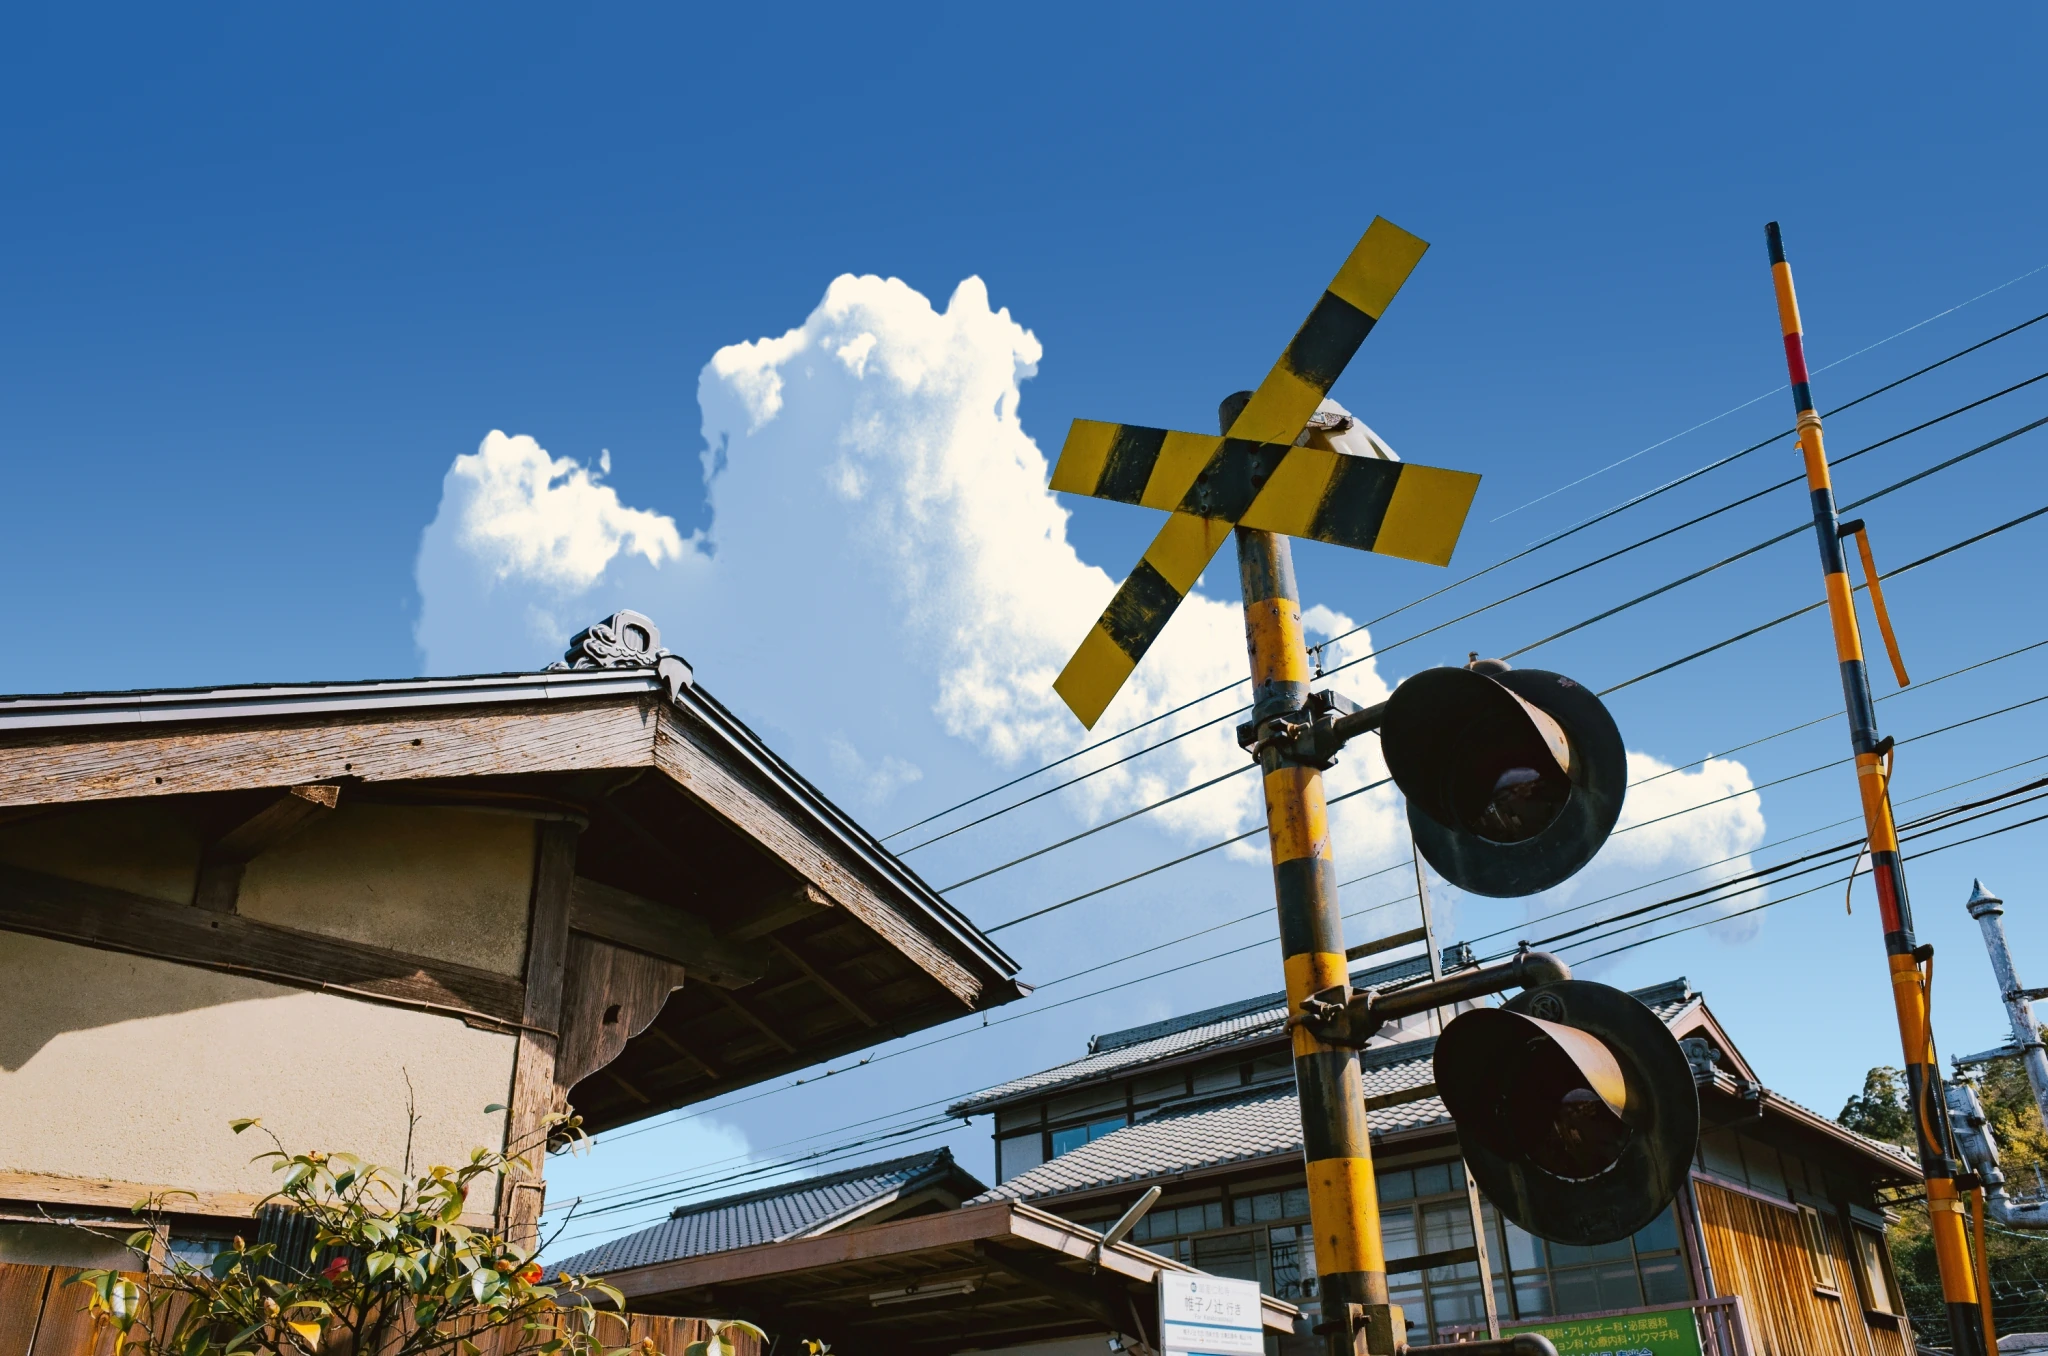
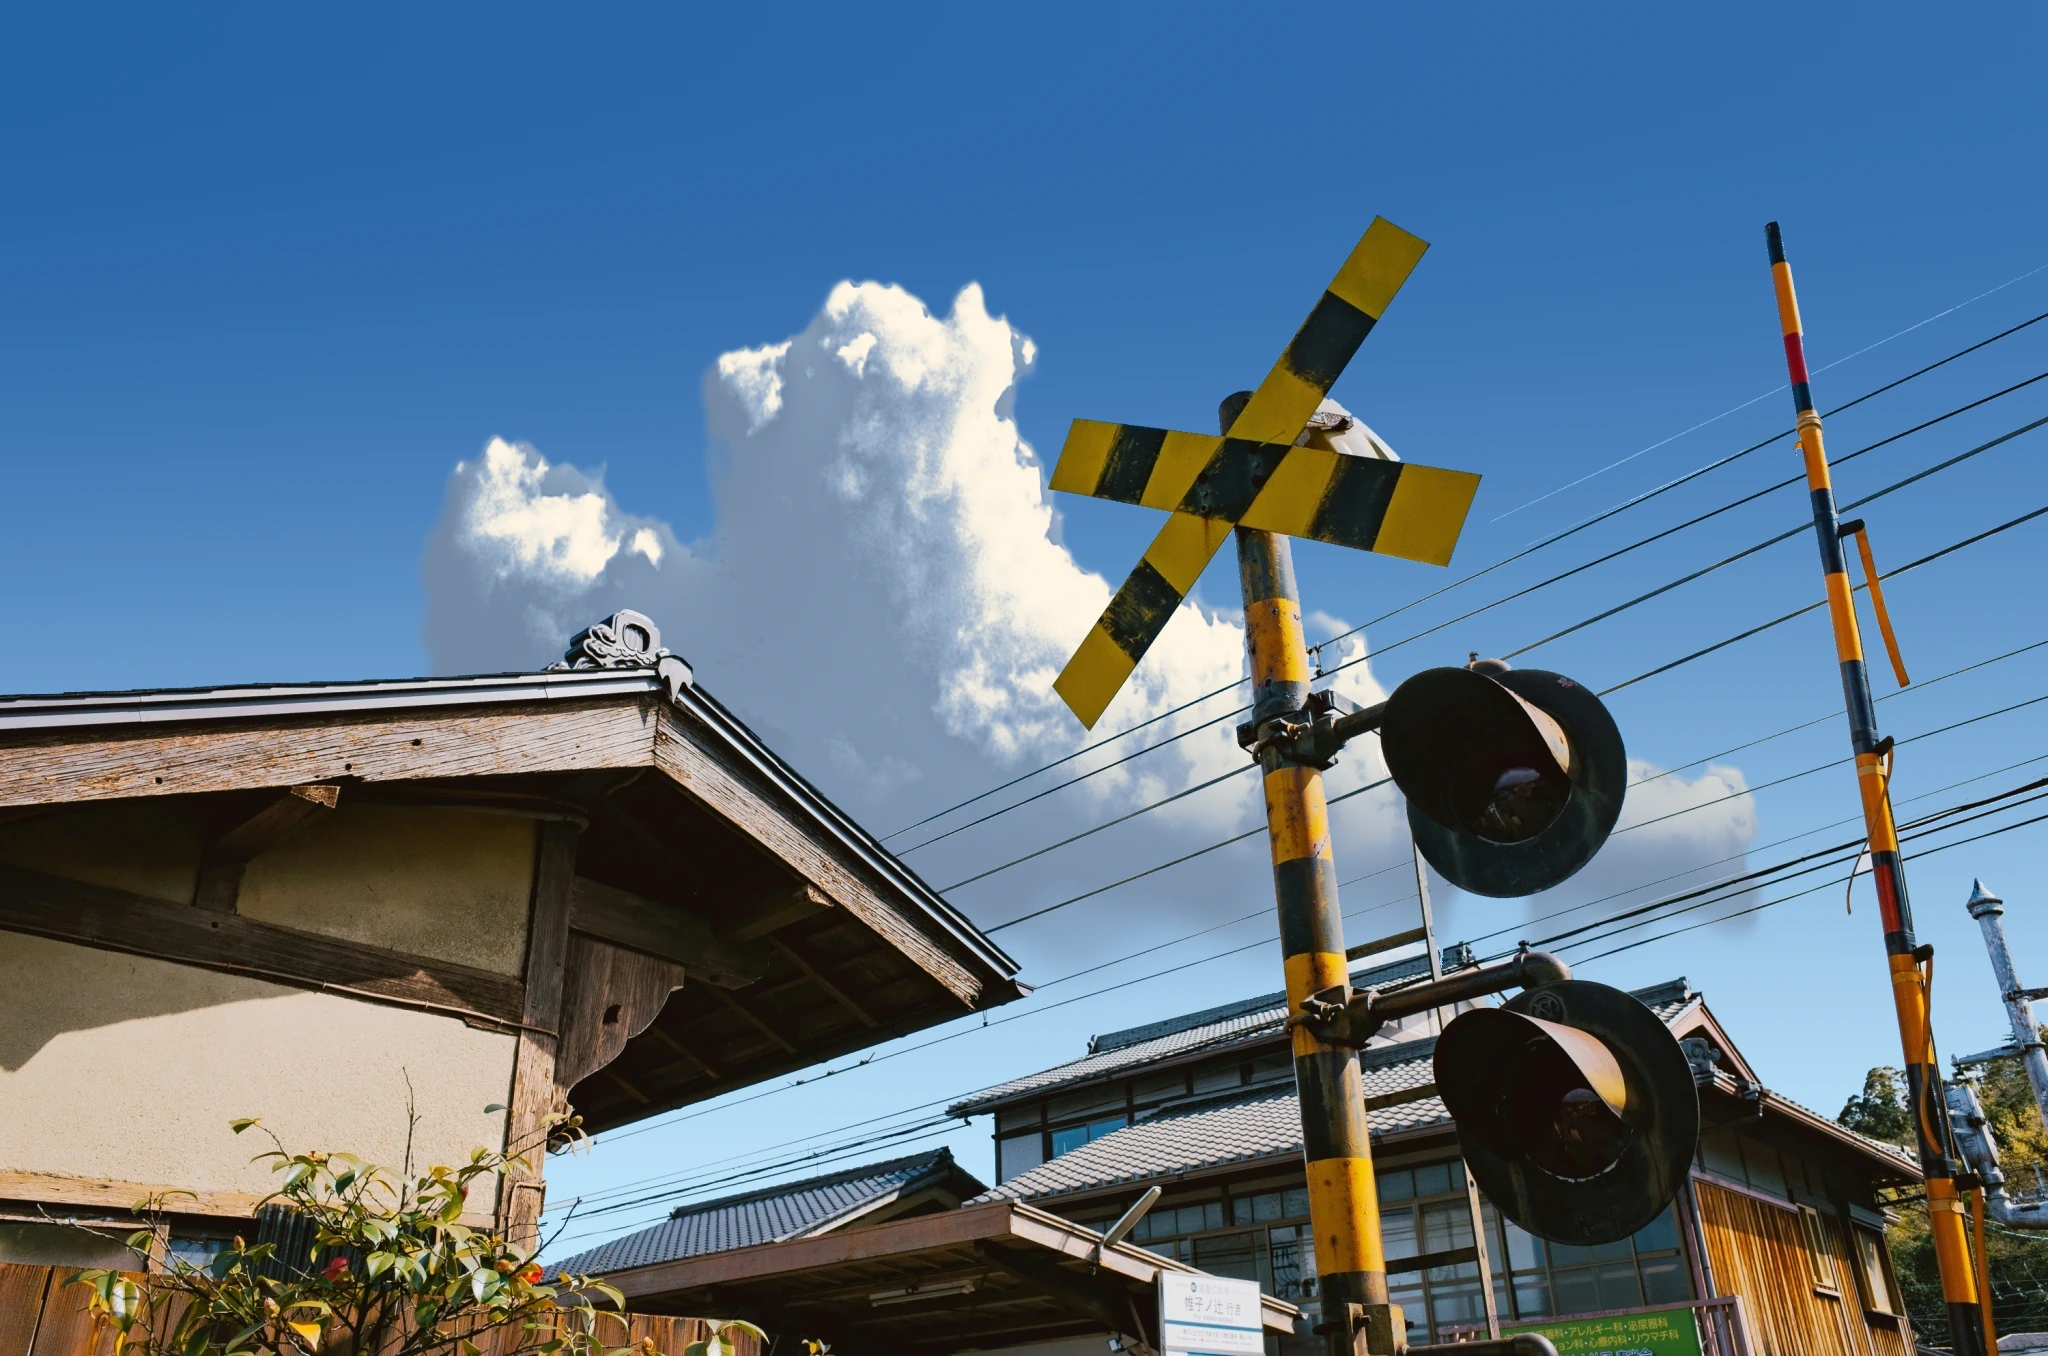
Lab: climb crossing round 1
Claude-Session: https://claude.ai/code/session_01RqENhngNCzDFmJWDZueXGV

Changed region(s): [[0.1875, 0.1858, 0.7188, 0.7124], [0.3438, 0.7434, 0.5312, 0.8673], [0.75, 0.5575, 0.875, 0.6814]]

diff --git a/src/app/lab/crossing/crossingEngine.js b/src/app/lab/crossing/crossingEngine.js
@@ -16,8 +16,9 @@ import { createFilm } from "../_kit/film";
 // The photo's own clouds were faint torn wisps, so the sky card holds the
 // clear cobalt gradient alone and an eighth card between it and the far
 // houses carries real cumulus (cumulus.py, from a Poly Haven summer HDRI):
-// sunlit warm tops that roll off below clipping, skylight-blue undersides,
-// rising from behind the old house's roof and the town.
+// sunlit warm tops that roll off below clipping, a skylight blue-grey left
+// flank and lower lobes, and a darker, flat base that thins into the sky's
+// horizon above the old house's roof and the town.
 //
 // Every plane k sits at its own distance z_k from the camera and is scaled by
 // z_k / f, so from the lens axis the stack projects back onto the photo
@@ -73,7 +74,7 @@ const PLANES = [
   // takes only a share of the lens's defocus (dof), of the air's haze and of
   // the shadows the cards in front throw (shade), so focused on the near
   // planes it stays a lit, glowing form, not a smear.
-  { file: "clouds", rect: [0.09375, 0.0944, 0.93555, 1.10324], o: 0.53, ends: [true, true, true, true], cast: false, dof: 0.2, haze: 0.15, shade: 0 },
+  { file: "clouds", rect: [0.0957, 0.09587, 0.93359, 0.85546], o: 0.53, ends: [true, true, true, true], cast: false, dof: 0.2, haze: 0.15, shade: 0 },
   { file: "p1", rect: [-0.1499, 0.18805, 1.1499, 1.14971], o: 0.38 }, // far houses, trees
   // the wires' overscan runs on along each wire's own slope, so past the
   // photo their matte (for shadows) does not hold its edge: it would draw

diff --git a/tools/depth/bakes/crossing/cumulus.py b/tools/depth/bakes/crossing/cumulus.py
@@ -20,11 +20,23 @@ a swing slides it against the rooftops.
              house) are kept, by connected component: the rows of small
              cumulus and the horizon haze under them are gone, so the alpha
              is 0 below the cloud base and nothing veils the roofs or the town.
-             Relit with real contrast: the HDR luminance, its billows
-             sharpened (a local-contrast boost in log luminance, so the
-             cauliflower holds on the lit edges), runs from a saturated
-             skylight blue-grey in the shaded lobes and toward the base to a
-             warm near-white on the sunlit tops that rolls off below clipping.
+  edge       the key's outermost px are thin cloud over sky: a pale rim with
+             dark-blue notches. Still at native resolution, the bays are
+             closed, the silhouette eroded by ERODE px and feathered again,
+             a little on the edges facing the sun and more on the shaded ones,
+             and the edge takes the colour of the solid body inside it.
+  light      the HDR luminance, its billows sharpened (a local-contrast boost
+             in log luminance, so the cauliflower holds), modelled by the
+             silhouette's relief lit from the sun. Only where the sun reaches
+             (the faces of the big lobes turned up and right, high in the
+             cloud) may it run up to the warm white that rolls off below
+             clipping; everywhere else the same billows stay in a skylight
+             blue-grey (hue 210-214), deeper in the lobes turned furthest
+             away, so the left flank and the lower lobes read as shade.
+  base       on the card: the underside darkens to a flatter blue-grey above
+             VBASE, then the cloud thins over BASE_FADE into the sky's own
+             horizon gradient along a wavering line, so no pale veil of it
+             hangs behind the old house's roof, the wires and the town.
              Projected onto the card through a rectilinear view, stretched
              upright (STRETCH) and scaled so the cloud towers from behind the
              roofs to well above the crossbuck's arms, in the middle of the
@@ -52,7 +64,7 @@ import numpy as np
 from PIL import Image
 
 sys.path.insert(0, os.path.dirname(os.path.abspath(__file__)))
-from common import dilate, erode, pushpull, smoothstep  # noqa: E402
+from common import dilate, disk, erode, pushpull, smoothstep  # noqa: E402
 from skygrad import _enc, _lin, sky_gradient  # noqa: E402
 
 BAKE, HDR, OUT = sys.argv[1:4]
@@ -88,15 +100,32 @@ FOCAL, STRETCH = 2700.0, 1.3
 KEEP_LON, KEEP_LAT = (125.0, 165.0), (17.0, 40.0)
 MIN_AREA = 30000  # pano px: cumulus, not the scraps round them
 PAD = 0.07  # transparent margin round the cloud, photo widths
+# The silhouette, in pano px: bays of sky narrower than 2 CLOSE_R are closed,
+# the key's thin rim is eroded by ERODE and the edge feathered again by
+# FEATHER (sigma: the sun-facing edges, the shaded ones).
+CLOSE_R, ERODE, FEATHER = 6, 5, (1.5, 4.0)
 # Relit cloud, sRGB: a warm sunlit white that the film lands just under
-# clipping, and a saturated skylight blue-grey for the shaded lobes.
-CLOUD_TOP = (0xFF, 0xF8, 0xEA)
-CLOUD_SHADE = (0x8F, 0xB3, 0xD9)
+# clipping, a skylight blue-grey for the shaded billows (k = K_SHADE) and a
+# deeper one for the lobes turned furthest from the sun (k = 0), all near
+# hue 210-214 so the shade reads as sky light, not grey.
+CLOUD_TOP = (0xFF, 0xF6, 0xE4)
+CLOUD_SHADE = (0x99, 0xAF, 0xC9)
+CLOUD_DEEP = (0x72, 0x89, 0xA6)
+K_SHADE = 0.45
 DETAIL = (2.3, 1.3)  # local-contrast boost of the billows (log luminance): lobes, then cauliflower
-BASE_SHADE = (31.0, 21.0, 0.6)  # toward the base (lat), the cloud darkens by up to this
 FORM = 0.55  # how much the silhouette's own relief, lit from the sun, models it
 SUN2D = (0.62, -0.78)  # the sun's direction across the view (x right, y down): up and right
-RIM = (8, 22, 0.85)  # sun-facing edges: within these px of the silhouette, lit to this share of the lobe inside
+# Where the sun reaches: the big lobes' relief (weight SUN_W[0]) and the
+# height in the cloud (lat SUN_LAT, weight SUN_W[1]). Out of it a lobe keeps
+# its billows but at most SHADE_CAP of the lit range.
+SUN_LAT, SUN_W, SHADE_CAP = (23.0, 33.0), (1.4, 1.6), 0.45
+# The base, in photo v: the underside darkens to CLOUD_BASE over BASE_BAND
+# above VBASE (keeping BASE_FLAT of its own broad shading, BASE_SHARE of the
+# way), then thins over BASE_FADE into the sky gradient (its colour BASE_SKY
+# of the way there as it goes), along a line that wavers by BASE_WOB.
+CLOUD_BASE = (0x7C, 0x92, 0xAE)
+VBASE, BASE_BAND, BASE_FADE, BASE_WOB = 0.66, 0.18, 0.08, 0.008
+BASE_FLAT, BASE_SHARE, BASE_SKY = 0.3, 0.9, 0.6
 SHARPEN = 0.5  # unsharp mask on the card, inside the cloud
 LW = np.array([0.2126, 0.7152, 0.0722], np.float32)
 PX_DEG = 16384 / 360  # the 16k pano's px per degree
@@ -203,6 +232,25 @@ alpha = alpha * np.clip(sel * 1.6, 0, 1)
 alpha = np.where(alpha < 0.02, 0, alpha)  # no faint veil anywhere off the cloud
 inside = alpha > 0.9
 
+# ---- the silhouette, at the HDRI's native resolution
+# The key's outermost few px are thin cloud over sky: a pale, half-transparent
+# rim with dark-blue notches where it read pockets of sky as clear. Kept, the
+# cloud is a cut-out. The notches are closed (a grey-level closing: any bay
+# narrower than CLOSE_R either side fills), the whole silhouette is eroded by
+# ERODE px so the rim goes, and it is feathered again: a little on the edges
+# that face the sun (a lit cumulus is crisp there), more on the shaded ones,
+# where the vapour thins into the sky.
+ac = cv2.morphologyEx(alpha, cv2.MORPH_CLOSE, disk(CLOSE_R))
+hgt = cv2.GaussianBlur((ac > 0.5).astype(np.float32), (0, 0), 10.0)
+gx = cv2.Sobel(hgt, cv2.CV_32F, 1, 0, ksize=3)
+gy = cv2.Sobel(hgt, cv2.CV_32F, 0, 1, ksize=3)
+facing = (-gx * SUN2D[0] - gy * SUN2D[1]) / (np.sqrt(gx * gx + gy * gy) + 1e-4)
+facing = cv2.GaussianBlur(smoothstep(-0.2, 0.6, facing), (0, 0), 6)
+ae = cv2.erode(ac, disk(ERODE))
+a_out = cv2.GaussianBlur(ae, (0, 0), FEATHER[0]) * facing + cv2.GaussianBlur(ae, (0, 0), FEATHER[1]) * (1 - facing)
+a_out = np.where(a_out < 1 / 255, 0, a_out)
+del hgt, gx, gy, facing
+
 # ---- relight
 LF = np.maximum(F @ LW, 1e-4)
 # the billows: a local-contrast boost in log luminance, at the scale of the
@@ -210,25 +258,10 @@ LF = np.maximum(F @ LW, 1e-4)
 # only (the sky round it would pull the edges down into a dark rim)
 lg = np.log(LF)
 for sig, amt in zip((14.0, 3.0), DETAIL):
-    wgt = cv2.GaussianBlur(alpha, (0, 0), sig) + 1e-4
-    base = cv2.GaussianBlur(lg * alpha, (0, 0), sig) / wgt
+    wgt = cv2.GaussianBlur(ac, (0, 0), sig) + 1e-4
+    base = cv2.GaussianBlur(lg * ac, (0, 0), sig) / wgt
     lg = base + amt * (lg - base)
 LF = np.exp(lg)
-# The HDRI's silhouette is dim all round (thin cloud, and the body firmed up
-# over it): kept as it is, it draws a blue-grey band round the cloud, a cut-out
-# rim. Along the edges that face the sun it takes the brightness of the lobe
-# just inside it, so a sunlit turret is lit right to its edge; the edges that
-# face away keep their shade.
-inner = (alpha > 0.5).astype(np.uint8)
-dist = cv2.distanceTransform(np.pad(inner, 1), cv2.DIST_L2, 5)[1:-1, 1:-1]
-hgt = cv2.GaussianBlur(inner.astype(np.float32), (0, 0), 10.0)
-gx = cv2.Sobel(hgt, cv2.CV_32F, 1, 0, ksize=3)
-gy = cv2.Sobel(hgt, cv2.CV_32F, 0, 1, ksize=3)
-facing = np.clip((-gx * SUN2D[0] - gy * SUN2D[1]) / (np.sqrt(gx * gx + gy * gy) + 1e-4), 0, 1)
-facing = cv2.GaussianBlur(facing, (0, 0), 4)
-rim = (1 - smoothstep(RIM[0], RIM[1], dist)) * smoothstep(0.0, 0.6, facing)
-env = cv2.GaussianBlur(cv2.dilate(LF, cv2.getStructuringElement(cv2.MORPH_ELLIPSE, (2 * RIM[1] + 1, 2 * RIM[1] + 1))), (0, 0), 4)
-LF = np.maximum(LF, LF + rim * (RIM[2] * env - LF))
 top = float(np.percentile(LF[inside], 96))
 low = float(np.percentile(LF[inside], 8))
 t = np.clip((np.log(LF) - np.log(low)) / (np.log(top) - np.log(low)), 0, 1.3)
@@ -237,8 +270,9 @@ t = np.clip((np.log(LF) - np.log(low)) / (np.log(top) - np.log(low)), 0, 1.3)
 # of the billows), lit from the sun's side, puts the form back: the turrets'
 # upper right faces catch the sun, their lower left falls into shade.
 rel = np.zeros_like(alpha)
+big = np.zeros_like(alpha)
 for sig, w in ((90.0, 0.5), (36.0, 0.5), (12.0, 0.4)):
-    hgt = cv2.GaussianBlur((alpha > 0.5).astype(np.float32), (0, 0), sig)
+    hgt = cv2.GaussianBlur((ac > 0.5).astype(np.float32), (0, 0), sig)
     gx = cv2.Sobel(hgt, cv2.CV_32F, 1, 0, ksize=3) / 8 * sig * 2.5
     gy = cv2.Sobel(hgt, cv2.CV_32F, 0, 1, ksize=3) / 8 * sig * 2.5
     # a surface rising toward the inside faces outward: the normal leans
@@ -246,26 +280,43 @@ for sig, w in ((90.0, 0.5), (36.0, 0.5), (12.0, 0.4)):
     nx, ny = -gx, -gy
     lam = (nx * SUN2D[0] + ny * SUN2D[1]) / np.sqrt(1 + nx * nx + ny * ny)
     rel += w * lam
+    if sig > 30:
+        big += w * lam
+del hgt, gx, gy, nx, ny, lam
 t = t + FORM * rel
-# toward the base the cloud is in its own shadow: blue-grey underneath
-t = t * (1 - BASE_SHADE[2] * smoothstep(BASE_SHADE[0], BASE_SHADE[1], SLAT))
-# mixed in sRGB (perceptual) so the middle of the range is a real blue-grey
-# and not already white; the tops roll off into the lit white with no
-# shoulder that clips (the film lands it about 240)
+# Where the sun reaches. A cumulus is lit on the faces that turn to the sun
+# (up and right) and stands in its own shade everywhere else: the left flank,
+# the lower lobes, the underside. The big lobes' relief and the height in the
+# cloud decide it; only there may a lobe run up to the warm white, elsewhere
+# the same billows stay in the skylight blue-grey.
+hl = smoothstep(SUN_LAT[0], SUN_LAT[1], SLAT)
+sun = smoothstep(0.15, 0.85, 0.5 + SUN_W[0] * big + SUN_W[1] * (hl - 0.5))
+sun = cv2.GaussianBlur(sun, (0, 0), 6)
+t = t * (SHADE_CAP + (1 - SHADE_CAP) * sun)
+del big, hl, sun
 t = np.clip(t, 0, 1.3)
 k = 0.5 * t ** 1.25 + 0.5 * smoothstep(0.08, 1.0, t)
 k = np.where(k > 0.8, 0.8 + 0.2 * np.tanh((k - 0.8) / 0.2), k)
 if WORK:
     os.makedirs(WORK, exist_ok=True)
-    for nm, im in (("k", k), ("rel", 0.5 + rel), ("t0", np.clip((np.log(LF) - np.log(low)) / (np.log(top) - np.log(low)), 0, 1))):
-        cv2.imwrite(os.path.join(WORK, nm + ".jpg"), (np.clip(im * (alpha > 0.02), 0, 1) * 255).astype(np.uint8)[::2, ::2])
-lit = np.array(CLOUD_TOP, np.float32) / 255
+    for nm, im in (("k", k), ("rel", 0.5 + rel), ("a_out", a_out)):
+        cv2.imwrite(os.path.join(WORK, nm + ".jpg"), (np.clip(im * (ac > 0.02), 0, 1) * 255).astype(np.uint8)[::2, ::2])
+# three stops, mixed in sRGB (perceptual): the deep skylight blue-grey of the
+# lobes turned furthest from the sun, the lighter blue-grey of the shaded
+# billows, the warm white of the sunlit tops
+deep = np.array(CLOUD_DEEP, np.float32) / 255
 shade = np.array(CLOUD_SHADE, np.float32) / 255
-col = _lin(shade + (lit - shade) * k[..., None])
-# The fringe's colour is un-mixed from very little cloud and comes out as
-# dark specks: it takes the colour of the cloud just inside it instead.
-wf = smoothstep(0.5, 0.95, alpha)[..., None]
-col = col * wf + pushpull(col, (alpha > 0.95).astype(np.float32)) * (1 - wf)
+lit = np.array(CLOUD_TOP, np.float32) / 255
+k3 = k[..., None]
+lo_ = deep + (shade - deep) * np.clip(k3 / K_SHADE, 0, 1)
+col = _lin(np.where(k3 < K_SHADE, lo_, shade + (lit - shade) * np.clip((k3 - K_SHADE) / (1 - K_SHADE), 0, 1) ** 1.3))
+del k3, lo_
+# The colour at the silhouette is un-mixed from very little cloud: every px
+# off the cloud's solid body takes the colour of the body just inside it.
+wf = smoothstep(0.5, 0.95, ae)[..., None]
+col = col * wf + pushpull(col, (ae > 0.95).astype(np.float32)) * (1 - wf)
+del wf, ae
+alpha = a_out
 print("cumulus: hdr top", round(top, 3), "low", round(low, 3))
 
 # ---- onto the card: premultiplied, through the view
@@ -287,6 +338,27 @@ core = cv2.GaussianBlur(erode(ca_ > 0.6, 3).astype(np.float32), (0, 0), 2)
 col = np.clip(col + SHARPEN * core[..., None] * (col - cv2.GaussianBlur(col, (0, 0), 1.6)), 0, 1)
 alpha = ca_
 del cc_, ca_
+# ---- the base (card space): the cloud's underside is flat and in its own
+# shadow, a darker blue-grey with little of the billows' detail, and below it
+# the cloud does not go on as a pale veil behind the roofs and the wires: it
+# thins into the sky's own horizon gradient, along a base line that wavers a
+# little (vapour, not a ruler).
+rng_ = np.random.default_rng(5)
+wob = cv2.resize(rng_.standard_normal((ch // 64 + 2, cw // 64 + 2)).astype(np.float32), (cw, ch), interpolation=cv2.INTER_CUBIC)
+wob = cv2.GaussianBlur(wob, (0, 0), 24)
+wob /= max(float(wob.std()), 1e-6)
+vb = V + BASE_WOB * wob
+del wob
+under = smoothstep(VBASE - BASE_BAND, VBASE, vb)[..., None]
+flat = cv2.GaussianBlur(col, (0, 0), 18)
+base_c = np.array(CLOUD_BASE, np.float32) / 255
+col = col + under * (base_c + BASE_FLAT * (flat - base_c) - col) * BASE_SHARE
+del flat
+gone = smoothstep(VBASE - 0.01, VBASE + BASE_FADE, vb)
+col = col + (gone * BASE_SKY)[..., None] * (sky_gradient(U, V) - col)
+alpha = alpha * (1 - gone)
+alpha = np.where(alpha < 1 / 255, 0, alpha)
+del under, gone, vb
 
 # ---- the clouds card: the cloud on a wide transparent margin, its alpha
 # feathered to 0 well inside every edge, origin and size on whole photo px
